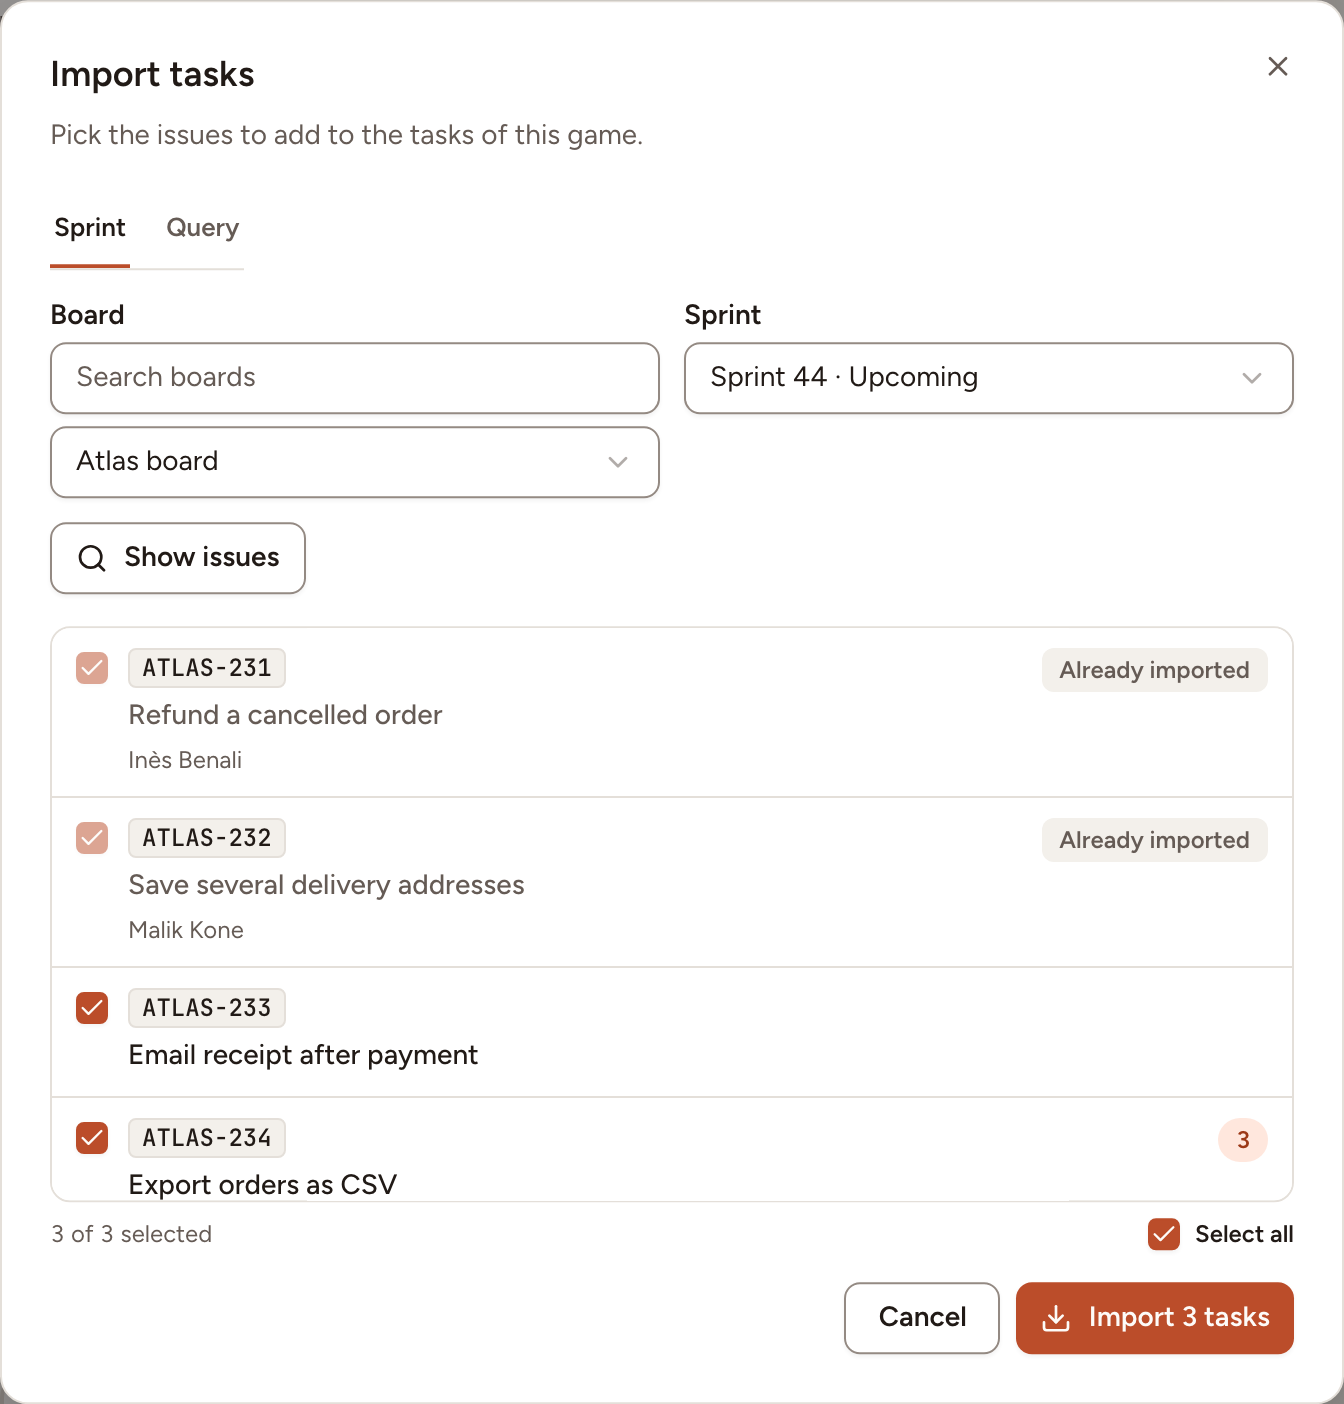
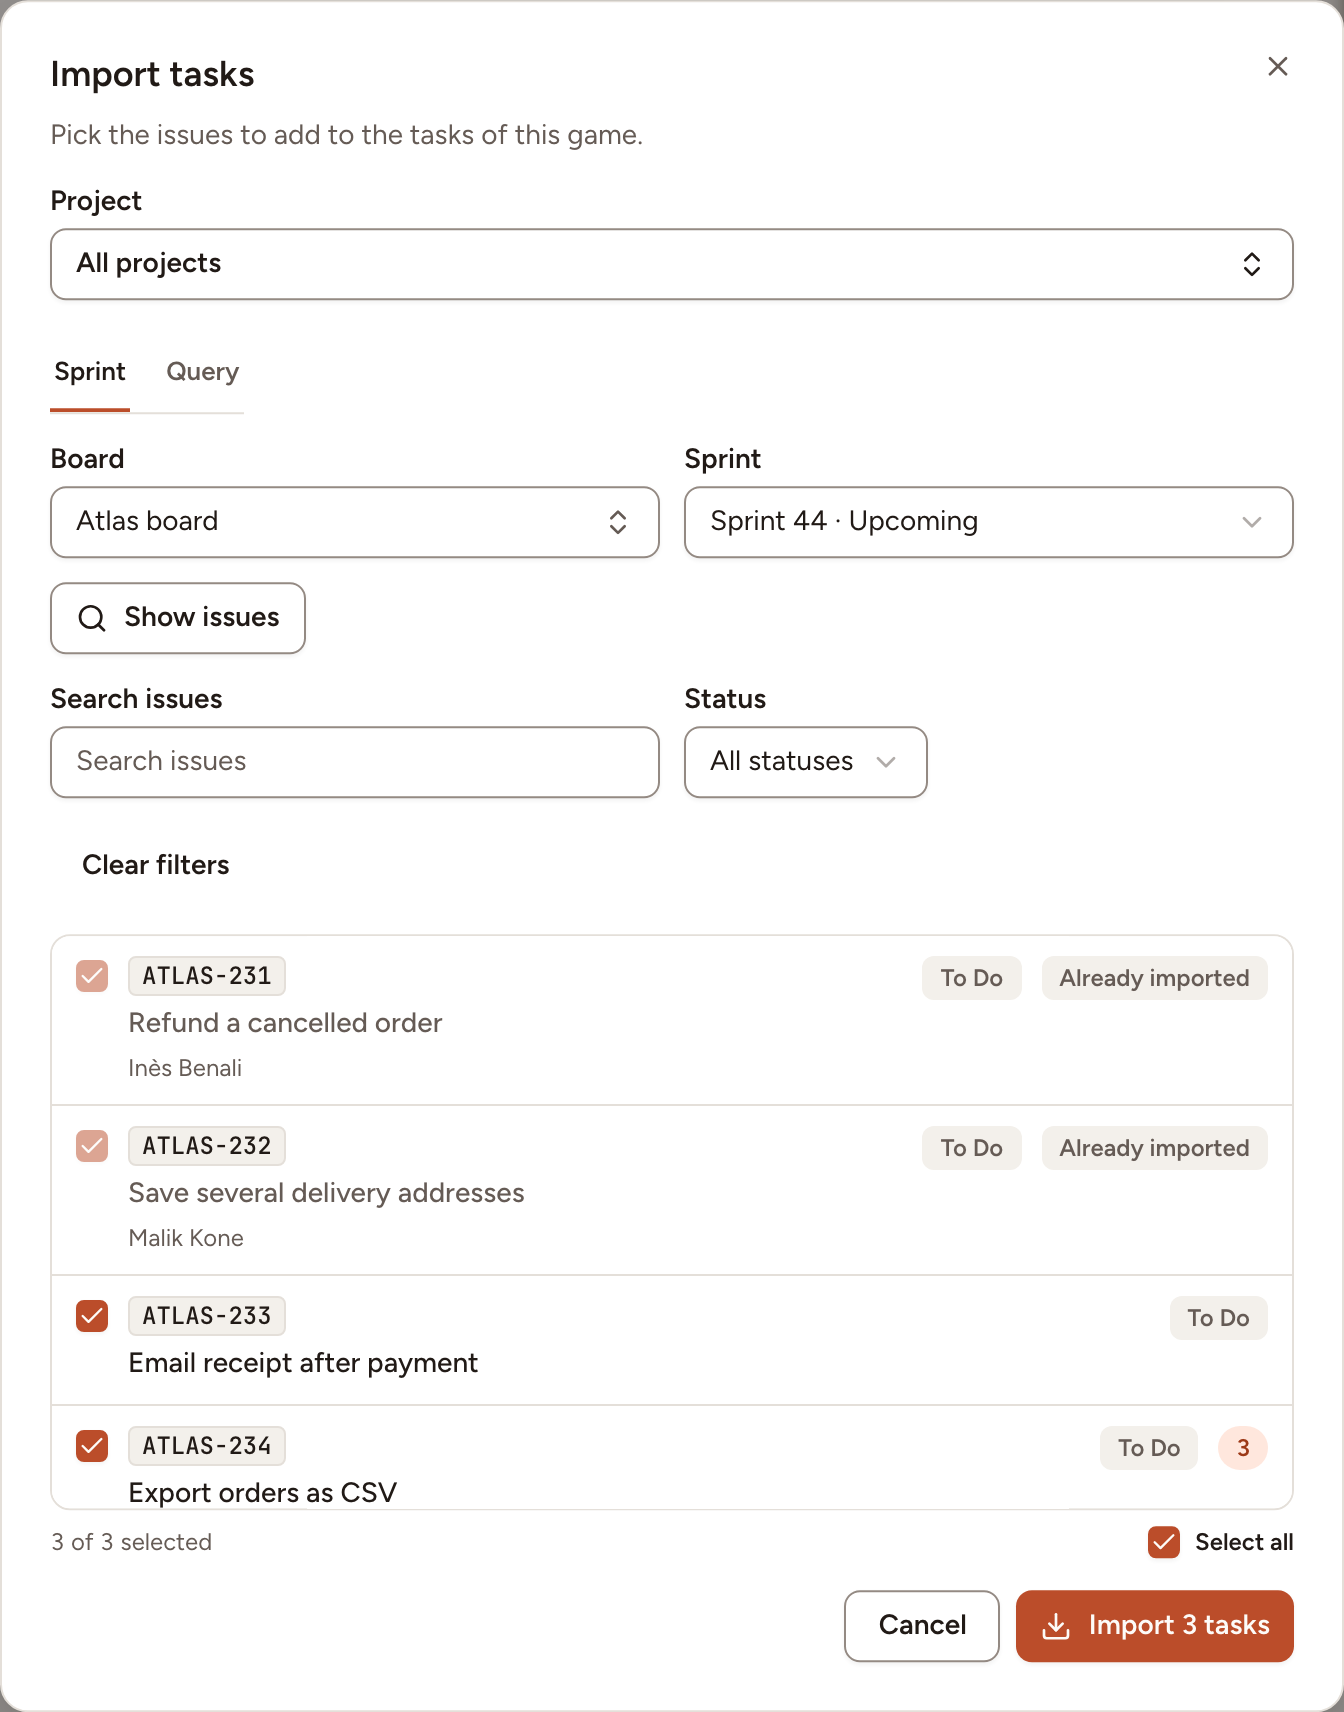
test(browser): update tracker flows and refresh documentation captures

diff --git a/tests/Browser/Walkthroughs/PokerTrackersTest.php b/tests/Browser/Walkthroughs/PokerTrackersTest.php
@@ -54,6 +54,8 @@ function pokerTrackersTable(array $sources, PokerDeck $deck = PokerDeck::Fibonac
 function pokerTrackersFakeJira(array $issues): void
 {
     Http::fake([
+        jiraApiUrl('rest/api/3/status') => Http::response([['id' => '1', 'name' => 'To Do']]),
+        jiraApiUrl('rest/agile/1.0/board/7/configuration') => Http::response(['filter' => ['id' => 70]]),
         jiraApiUrl('rest/agile/1.0/board/*/sprint*') => Http::response(['values' => [
             ['id' => 31, 'name' => 'Sprint 31', 'state' => 'active'],
         ]]),
@@ -76,6 +78,8 @@ function pokerTrackersFakeJira(array $issues): void
 function pokerTrackersFakeLinear(array $issues): void
 {
     fakeLinearGraphql([
+        'workflowStates(first' => fn (array $variables): array => ['workflowStates' => ['nodes' => []], 'issues' => ['nodes' => isset($variables['filter']['or']) ? array_slice($issues, 0, 1) : $issues, 'pageInfo' => ['hasNextPage' => false]]],
+        'states(first' => ['team' => ['states' => ['nodes' => []], 'issues' => ['nodes' => $issues, 'pageInfo' => ['hasNextPage' => false]]]],
         'teams(first' => ['teams' => ['nodes' => [['id' => 'team-1', 'name' => 'Engineering']]]],
         'cycles(first' => ['team' => ['cycles' => ['nodes' => [[
             'id' => 'cycle-1',
@@ -145,8 +149,7 @@ function pokerTrackersShowJiraSprintIssues(mixed $page): mixed
         ->assertEnabled('[aria-label="Choose a sprint"]')
         ->click('[aria-label="Choose a sprint"]')
         ->click('[role="option"]:has-text("Sprint 31")')
-        ->assertButtonEnabled('Show issues')
-        ->click('Show issues');
+        ->assertPresent('[data-slot="import-preview"]');
 
     return $page;
 }
@@ -209,7 +212,7 @@ it('imports an active Jira sprint in sprint order with the issue keys', function
         ->assertSee('Jira estimate: 3');
 
     Http::assertSent(fn (Request $request): bool => str_ends_with($request->url(), '/rest/api/3/search/jql')
-        && $request['jql'] === 'sprint = 31 ORDER BY Rank ASC');
+        && $request['jql'] === '(sprint = 31) ORDER BY Rank ASC');
 
     expect(PokerTask::query()->where('poker_game_id', $game->id)->orderBy('position')->pluck('external_key')->all())
         ->toBe(['PROJ-1', 'PROJ-2'])
@@ -260,8 +263,6 @@ it('imports a Linear cycle after switching the source', function () {
         ->assertEnabled('[aria-label="Choose a cycle"]')
         ->click('[aria-label="Choose a cycle"]')
         ->click('[role="option"]:has-text("Cycle 12")')
-        ->assertButtonEnabled('Show issues')
-        ->click('Show issues')
         ->assertAttribute('[role="dialog"] [role="checkbox"][aria-label="ENG-1"]', 'aria-checked', 'true')
         ->assertSeeIn('[role="dialog"] li:has-text("ENG-2")', 'Signup form')
         ->click('Import 2 tasks')
@@ -272,8 +273,8 @@ it('imports a Linear cycle after switching the source', function () {
         ->assertPresent('[data-test="poker-task-row"]:has-text("Login form") [data-slot="badge"]:text-is("ENG-1")')
         ->assertPresent('[data-test="poker-task-row"]:has-text("Signup form") [data-slot="badge"]:text-is("ENG-2")');
 
-    Http::assertSent(fn (Request $request): bool => str_contains((string) data_get($request->data(), 'query'), 'cycle(id')
-        && data_get($request->data(), 'variables.id') === 'cycle-1');
+    Http::assertSent(fn (Request $request): bool => str_contains((string) data_get($request->data(), 'query'), 'team(id')
+        && data_get($request->data(), 'variables.filter.cycle.id.eq') === 'cycle-1');
 
     expect(PokerTask::query()->where('poker_game_id', $game->id)->orderBy('position')->pluck('external_key')->all())
         ->toBe(['ENG-1', 'ENG-2'])
@@ -307,8 +308,8 @@ it('imports the result of a Linear search', function () {
         ->assertCount('@poker-task-row', 1)
         ->assertPresent('[data-test="poker-task-row"]:has-text("Login form") [data-slot="badge"]:text-is("ENG-1")');
 
-    Http::assertSent(fn (Request $request): bool => str_contains((string) $request['query'], 'searchIssues')
-        && data_get($request->data(), 'variables.term') === 'login');
+    Http::assertSent(fn (Request $request): bool => str_contains((string) $request['query'], 'workflowStates')
+        && data_get($request->data(), 'variables.filter.or.0.title.containsIgnoreCase') === 'login');
 
     expect(PokerTask::query()->where('poker_game_id', $game->id)->pluck('external_key')->all())->toBe(['ENG-1']);
 });

diff --git a/tests/Browser/Walkthroughs/TrackersTest.php b/tests/Browser/Walkthroughs/TrackersTest.php
@@ -61,6 +61,8 @@ function trackersJiraDataCenterIssue(string $id, string $key): array
 function trackersFakeJiraDataCenter(array $routes = []): void
 {
     $defaults = [
+        jiraDataCenterUrl('rest/api/2/status') => Http::response([['id' => '1', 'name' => 'To Do']]),
+        jiraDataCenterUrl('rest/agile/1.0/board/7/configuration') => Http::response(['filter' => ['id' => 70]]),
         jiraDataCenterUrl('rest/agile/1.0/board/*/sprint*') => Http::response(['values' => [
             ['id' => 31, 'name' => 'Sprint 31', 'state' => 'active', 'startDate' => '2026-10-01T09:00:00.000+02:00', 'endDate' => '2026-10-14T17:00:00.000+02:00'],
         ]]),
@@ -328,7 +330,6 @@ it('imports the issues of a Jira Data Center sprint into a poker game', function
         ->click('[aria-label="Choose a sprint"]')
         ->click('[role="option"]:has-text("Sprint 31")')
         ->assertNotPresent('[role="listbox"]')
-        ->click('Show issues')
         ->assertSee('Story PROJ-1')
         ->assertSee('Story PROJ-2')
         ->assertSee('Jane Doe')
@@ -347,7 +348,7 @@ it('imports the issues of a Jira Data Center sprint into a poker game', function
         ->and($tasks->first()->external_estimate)->toBe('5');
 
     Http::assertSent(fn (Request $request) => $request->url() === 'https://jira.example.com/rest/api/2/search'
-        && $request['jql'] === 'sprint = 31 ORDER BY Rank ASC'
+        && $request['jql'] === '(sprint = 31) ORDER BY Rank ASC'
         && $request->hasHeader('Authorization', 'Bearer jira-dc-access'));
 });
 
@@ -494,7 +495,7 @@ it('links the GitHub card to the App installation and shows the connected accoun
         ->assertSee('Test the connection');
 });
 
-it('imports the open issues of a GitHub milestone into a poker game', function () {
+it('imports the issues of a GitHub milestone into a poker game', function () {
     $table = trackersTable(IntegrationProvider::GitHub);
     fakeGitHubTrackerApi([
         'api.github.com/repos/acme/api/milestones*' => Http::response([
@@ -515,7 +516,6 @@ it('imports the open issues of a GitHub milestone into a poker game', function (
         ->click('[aria-label="Choose a milestone"]')
         ->click('[role="option"]:has-text("Sprint 2")')
         ->assertNotPresent('[role="listbox"]')
-        ->click('Show issues')
         ->assertSee('acme/api#1')
         ->assertSee('acme/api#2')
         ->assertDontSee('acme/api#5')
@@ -530,8 +530,8 @@ it('imports the open issues of a GitHub milestone into a poker game', function (
         ->toBe(['9001/1', '9001/2']);
 
     Http::assertSent(fn (Request $request) => str_starts_with($request->url(), 'https://api.github.com/repos/acme/api/issues?')
-        && $request['milestone'] === '2'
-        && $request['state'] === 'open');
+        && ($request['milestone'] ?? null) === '2'
+        && $request['state'] === 'all');
 });
 
 it('writes the estimate of a Fibonacci game as one block at the end of the GitHub issue body', function () {

diff --git a/tests/Browser/Walkthroughs/CoveragePokerTest.php b/tests/Browser/Walkthroughs/CoveragePokerTest.php
@@ -11,6 +11,7 @@ use App\Models\SavedPokerDeck;
 use App\Models\Team;
 use App\Models\TeamIntegration;
 use App\Models\User;
+use Illuminate\Http\Client\Request;
 use Illuminate\Support\Facades\Http;
 
 /**
@@ -69,6 +70,8 @@ function cvpFakeJiraForCreation(?array $issuesAtCreation): void
         : Http::response(['issues' => $issuesAtCreation, 'isLast' => true]);
 
     Http::fake([
+        jiraApiUrl('rest/api/3/status') => Http::response([['id' => '1', 'name' => 'To Do']]),
+        jiraApiUrl('rest/agile/1.0/board/7/configuration') => Http::response(['filter' => ['id' => 70]]),
         jiraApiUrl('rest/agile/1.0/board/*/sprint*') => Http::response(['values' => [
             ['id' => 31, 'name' => 'Sprint 31', 'state' => 'active'],
         ]]),
@@ -76,9 +79,9 @@ function cvpFakeJiraForCreation(?array $issuesAtCreation): void
             'values' => [['id' => 7, 'name' => 'Web team board']],
             'isLast' => true,
         ]),
-        jiraApiUrl('rest/api/3/search/jql') => Http::sequence()
-            ->push(['issues' => $sprintIssues, 'isLast' => true])
-            ->pushResponse($creationAnswer),
+        jiraApiUrl('rest/api/3/search/jql') => fn (Request $request) => str_starts_with((string) $request['jql'], 'id in (')
+            ? $creationAnswer
+            : Http::response(['issues' => $sprintIssues, 'isLast' => true]),
         jiraApiUrl('rest/api/3/issue/*/editmeta') => Http::response(['fields' => []]),
         'api.atlassian.com/*' => Http::response(['errorMessages' => ['Unexpected request in a browser test.']], 404),
     ]);
@@ -88,12 +91,11 @@ function cvpPickSprintIssues(mixed $page): mixed
 {
     return $page->assertVisible('#new-poker-title')
         ->fill('#new-poker-title', 'Imported refinement')
-        ->click('[role="dialog"] [role="tab"]:has-text("Import from Jira")')
+        ->click('[role="dialog"] [role="tab"]:has-text("Import")')
         ->click('[aria-label="Choose a board"]')
         ->click('[role="option"]:has-text("Web team board")')
         ->click('[aria-label="Choose a sprint"]')
         ->click('[role="option"]:has-text("Sprint 31")')
-        ->click('Show issues')
         ->assertSeeIn('[role="dialog"] li:has-text("PROJ-2")', 'Payment retries');
 }
 

diff --git a/tests/Browser/Docs/PlanningPokerDocsTest.php b/tests/Browser/Docs/PlanningPokerDocsTest.php
@@ -115,6 +115,8 @@ function docsPlanningPokerJira(DocsWorld $world): void
     ]);
 
     Http::fake([
+        'api.atlassian.com/ex/jira/cloud-1/rest/api/3/status' => Http::response([['id' => '1', 'name' => 'To Do']]),
+        'api.atlassian.com/ex/jira/cloud-1/rest/agile/1.0/board/7/configuration' => Http::response(['filter' => ['id' => 70]]),
         'api.atlassian.com/ex/jira/cloud-1/rest/agile/1.0/board/*/sprint*' => Http::response(['values' => [
             ['id' => 43, 'name' => 'Sprint 43', 'state' => 'active'],
             ['id' => 44, 'name' => 'Sprint 44', 'state' => 'future'],
@@ -273,7 +275,6 @@ it('shows the import dialog with the issues of a Jira sprint, two of them alread
         ->assertEnabled('[aria-label="Choose a sprint"]')
         ->click('[aria-label="Choose a sprint"]')
         ->click('[role="option"]:has-text("Sprint 44")')
-        ->click('Show issues')
         ->assertCount('[data-slot="poker-import"] [data-slot="import-preview"] li', 5)
         ->assertDisabled('[data-slot="poker-import"] [role="checkbox"][aria-label="ATLAS-231"]')
         ->assertSeeIn('[data-slot="import-selection"]', '3 of 3 selected');
@@ -385,4 +386,17 @@ it('shows the estimation history of a team with the two rounds of a task that wa
         ->assertCount('[data-slot="poker-round"]', 2);
 
     $this->docShot($page, 'planning-poker/estimates', '[data-slot="estimation-history"]');
+});
+
+it('shows the import tab of a new session with optional filters and selected issues', function () {
+    $world = DocsWorld::create();
+    docsPlanningPokerJira($world);
+    $page = $this->docsVisit($world->person('Théo'), route('teams.show', [$world->workspace, $world->team, 'new' => 'poker'], false))
+        ->resize(1440, 1800)
+        ->fill('#new-poker-title', 'Sprint 44 planning')
+        ->click('[data-slot="poker-tasks"] [role="tab"]:has-text("Import")')
+        ->assertCount('[data-slot="import-preview"] li', 5)
+        ->assertSee('No filters selected: all accessible issues are shown.');
+
+    $this->docShot($page, 'planning-poker/new-game-import', '[data-slot="poker-tasks"]');
 });

diff --git a/tests/Browser/Walkthroughs/PokerRoomTest.php b/tests/Browser/Walkthroughs/PokerRoomTest.php
@@ -80,6 +80,8 @@ function pokerRoomImportedTask(PokerGame $game, string $title = 'CSV export of r
 function pokerRoomFakeJira(array $issues): void
 {
     Http::fake([
+        jiraApiUrl('rest/api/3/status') => Http::response([['id' => '1', 'name' => 'To Do']]),
+        jiraApiUrl('rest/agile/1.0/board/7/configuration') => Http::response(['filter' => ['id' => 70]]),
         jiraApiUrl('rest/agile/1.0/board/*/sprint*') => Http::response(['values' => [
             ['id' => 31, 'name' => 'Sprint 31', 'state' => 'active'],
         ]]),
@@ -330,12 +332,11 @@ it('imports chosen Jira tickets while creating a game and opens it with them in 
         ->fill('#new-poker-title', 'Imported refinement')
         ->assertSeeIn('[role="dialog"]', 'Write estimates to Jira')
         ->assertSeeIn('[role="dialog"]', 'Estimates are written to Jira when the facilitator clicks “Save estimate”.')
-        ->click('[role="dialog"] [role="tab"]:has-text("Import from Jira")')
+        ->click('[role="dialog"] [role="tab"]:has-text("Import")')
         ->click('[aria-label="Choose a board"]')
         ->click('[role="option"]:has-text("Web team board")')
         ->click('[aria-label="Choose a sprint"]')
         ->click('[role="option"]:has-text("Sprint 31")')
-        ->click('Show issues')
         ->assertSeeIn('[role="dialog"] li:has-text("PROJ-1")', 'Checkout page')
         ->assertNotPresent('[role="dialog"] :text("Already imported")')
         ->click('[role="dialog"] [role="checkbox"][aria-label="PROJ-2"]')

diff --git a/tests/Pest.php b/tests/Pest.php
@@ -1124,6 +1124,8 @@ function fakeJiraTrackerApi(?array $issues = null): void
     $issues ??= [jiraTrackerIssue('10001', 'PROJ-1'), jiraTrackerIssue('10002', 'PROJ-2')];
 
     Http::fake([
+        'api.atlassian.com/ex/jira/cloud-1/rest/api/3/status' => Http::response([['id' => '1', 'name' => 'To Do']]),
+        'api.atlassian.com/ex/jira/cloud-1/rest/agile/1.0/board/7/configuration' => Http::response(['filter' => ['id' => 70]]),
         'api.atlassian.com/ex/jira/cloud-1/rest/agile/1.0/board/*/sprint*' => Http::response(['values' => [
             ['id' => 31, 'name' => 'Sprint 31', 'state' => 'active'],
         ]]),
@@ -1643,6 +1645,7 @@ function fakeGitHubTrackerApi(array $routes = []): void
             ['number' => 4, 'title' => 'Someday', 'due_on' => null],
             ['number' => 1, 'title' => 'Late', 'due_on' => '2026-09-01T07:00:00Z'],
         ]),
+        'api.github.com/repos/acme/web/issues?*' => Http::response([]),
         'api.github.com/repos/acme/api/issues?*' => Http::response([
             gitHubIssue(1),
             gitHubIssue(5, ['pull_request' => ['url' => 'https://api.github.com/repos/acme/api/pulls/5']]),

diff --git a/tests/Browser/Visual/SessionCreateVisualTest.php b/tests/Browser/Visual/SessionCreateVisualTest.php
@@ -236,7 +236,7 @@ it('renders the poker form of the new session dialog importing twelve Jira ticke
             $page = $open($path, $options)
                 ->resize($width, $width === 1440 ? 900 : 844)
                 ->assertPresent('[role="dialog"] [data-slot="poker-session-fields"]')
-                ->click('[role="dialog"] [data-slot="poker-tasks"] [role="tab"]:has-text("Jira")')
+                ->click('[role="dialog"] [data-slot="poker-tasks"] [role="tab"]:has-text("'.($french ? 'Importer' : 'Import').'")')
                 ->click($french ? '[data-slot="tracker-issue-picker"] [role="tab"]:has-text("Requête")' : '[data-slot="tracker-issue-picker"] [role="tab"]:has-text("Query")')
                 ->fill('#new-poker-import-query', 'project = ATLAS AND sprint in openSprints() ORDER BY rank')
                 ->click($french ? 'Afficher les tickets' : 'Show issues')

diff --git a/tests/Browser/Visual/PokerPagesVisualTest.php b/tests/Browser/Visual/PokerPagesVisualTest.php
@@ -267,7 +267,6 @@ it('renders the import dialog with the issues of a sprint without overflow', fun
                 ->assertEnabled($french ? '[aria-label="Choisir un sprint"]' : '[aria-label="Choose a sprint"]')
                 ->click($french ? '[aria-label="Choisir un sprint"]' : '[aria-label="Choose a sprint"]')
                 ->click('[role="option"]:has-text("Sprint 31")')
-                ->click($french ? 'Afficher les tickets' : 'Show issues')
                 ->assertCount('[data-slot="poker-import"] [data-slot="import-preview"] li', 3)
                 ->assertAttribute('[data-slot="poker-import"] [role="checkbox"][aria-label="PROJ-1"]', 'aria-checked', 'true')
                 ->assertDisabled('[data-slot="poker-import"] [role="checkbox"][aria-label="PROJ-2"]')

diff --git a/tests/Browser/Docs/AccountsDocsTest.php b/tests/Browser/Docs/AccountsDocsTest.php
@@ -427,3 +427,11 @@ it('shows the command menu with its actions, the recent sessions and the pages',
 
     $this->docShot($page, 'accounts/command-menu', '[role="dialog"]');
 });
+
+it('shows the password confirmation dialog for a protected direct link', function () {
+    $world = DocsWorld::create();
+    $page = $this->docsVisit($world->person('Camille'), '/user/confirm-password')
+        ->assertPresent('[role="dialog"] #password');
+
+    $this->docShot($page, 'accounts/password-confirmation', '[role="dialog"]');
+});

diff --git a/tests/Browser/Walkthroughs/RetroCoreTest.php b/tests/Browser/Walkthroughs/RetroCoreTest.php
@@ -602,7 +602,8 @@ it('casts and retracts a vote with the keyboard only', function () {
 
     expect($retro->votes()->count())->toBe(1);
 
-    $page->keys("#card-{$card->id} [aria-label=\"Remove a vote\"]", 'Space')
+    $page->assertEnabled("#card-{$card->id} [aria-label=\"Remove a vote\"]")
+        ->keys("#card-{$card->id} [aria-label=\"Remove a vote\"]", 'Space')
         ->assertSee('Votes left: 5');
 
     expect($retro->votes()->count())->toBe(0);

diff --git a/tests/Browser/Visual/AccessPagesVisualTest.php b/tests/Browser/Visual/AccessPagesVisualTest.php
@@ -105,7 +105,7 @@ it('renders the password confirmation without overflow', function () {
         function (string $path, array $options) use ($member) {
             $page = visualSignIn($member, $path, $options);
 
-            return $page->assertPresent('[data-slot="confirm-password-form"] #password');
+            return $page->assertPresent('[role="dialog"] #password');
         },
     );
 });

diff --git a/website/src/content/docs/accounts/account-settings.md b/website/src/content/docs/accounts/account-settings.md
@@ -32,6 +32,8 @@ The **Avatar style** card sets how your avatar is drawn when you have no photo. 
 
 Skrüm asks you to confirm your password in a dialog before it shows or changes anything in **Security**. The same dialog opens when a direct link requires password confirmation.
 
+![The password confirmation dialog with the password field and confirmation button](../../../assets/screenshots/accounts/password-confirmation.png)
+
 1. In the **Password** card, enter your **Current password**.
 2. Enter the **New password** and repeat it in **Confirm new password**. The card shows how strong it is and ticks each rule as you meet it.
 3. Select **Update password**.
